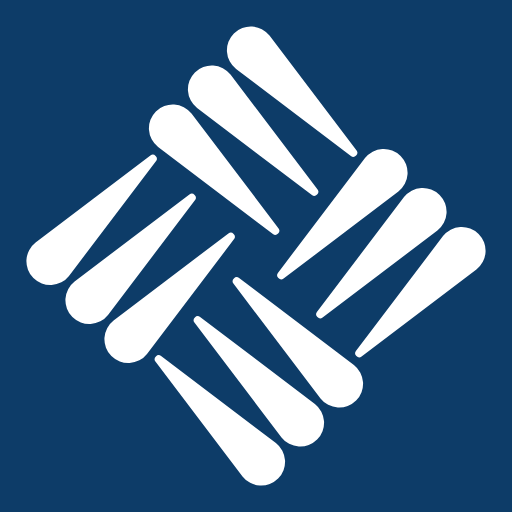
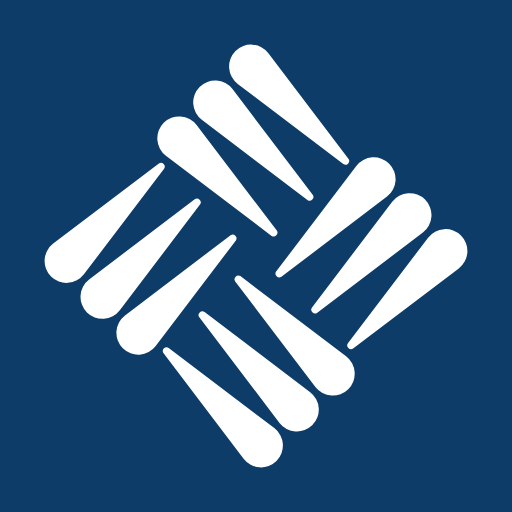
El logotipo, con un poco más de margen
En la imagen que se entregó el dibujo ocupa el 90 % del cuadro. En un icono
eso es llegar casi al borde: con las esquinas redondeadas, las gotas de los
extremos quedaban a dos píxeles del canto.

Las gotas van ahora al 92 % de aquel tamaño —el dibujo ocupa el 83 % del
cuadro—, con el mismo azul alrededor. Cambia en los tres sitios donde vive el
trazo (`favicon.svg`, `design/marca.ts` e `index.html`) y en los cuatro PNG.

La variante de Android se encoge menos (0,85 en vez de 0,78) para acabar del
mismo tamaño que antes dentro de su círculo.

Claude-Session: https://claude.ai/code/session_01SRM8uLNo9CgUdEtVNYbfDJ

diff --git a/index.html b/index.html
@@ -66,7 +66,7 @@
       <div id="arranque" role="status" aria-label="Cargando">
         <svg width="72" height="72" viewBox="0 0 512 512" aria-hidden="true">
           <rect width="512" height="512" fill="#0D3C68" />
-          <path fill="#fff" d="M269.5 35.6L356.6 150.4A4.1 4.1 0 0 1 350.9 156.1L236.1 69A23.8 23.8 0 1 1 269.5 35.6ZM230.5 74.6L317.6 189.4A4.1 4.1 0 0 1 311.9 195.1L197.1 108A23.8 23.8 0 1 1 230.5 74.6ZM191.5 113.6L278.6 228.4A4.1 4.1 0 0 1 272.9 234.1L158.1 147A23.8 23.8 0 1 1 191.5 113.6ZM476.4 269.5L361.6 356.6A4.1 4.1 0 0 1 355.9 350.9L443 236.1A23.8 23.8 0 1 1 476.4 269.5ZM437.4 230.5L322.6 317.6A4.1 4.1 0 0 1 316.9 311.9L404 197.1A23.8 23.8 0 1 1 437.4 230.5ZM398.4 191.5L283.6 278.6A4.1 4.1 0 0 1 277.9 272.9L365 158.1A23.8 23.8 0 1 1 398.4 191.5ZM242.5 476.4L155.4 361.6A4.1 4.1 0 0 1 161.1 355.9L275.9 443A23.8 23.8 0 1 1 242.5 476.4ZM281.5 437.4L194.4 322.6A4.1 4.1 0 0 1 200.1 316.9L314.9 404A23.8 23.8 0 1 1 281.5 437.4ZM320.5 398.4L233.4 283.6A4.1 4.1 0 0 1 239.1 277.9L353.9 365A23.8 23.8 0 1 1 320.5 398.4ZM35.6 242.5L150.4 155.4A4.1 4.1 0 0 1 156.1 161.1L69 275.9A23.8 23.8 0 1 1 35.6 242.5ZM74.6 281.5L189.4 194.4A4.1 4.1 0 0 1 195.1 200.1L108 314.9A23.8 23.8 0 1 1 74.6 281.5ZM113.6 320.5L228.4 233.4A4.1 4.1 0 0 1 234.1 239.1L147 353.9A23.8 23.8 0 1 1 113.6 320.5Z" />
+          <path fill="#fff" d="M268.4 53.2L348.6 158.9A3.8 3.8 0 0 1 343.3 164.1L237.7 83.9A21.9 21.9 0 1 1 268.4 53.2ZM232.5 89.1L312.7 194.7A3.8 3.8 0 0 1 307.4 200L201.8 119.8A21.9 21.9 0 1 1 232.5 89.1ZM196.6 125L276.8 230.6A3.8 3.8 0 0 1 271.6 235.9L165.9 155.7A21.9 21.9 0 1 1 196.6 125ZM458.8 268.4L353.1 348.6A3.8 3.8 0 0 1 347.9 343.3L428.1 237.7A21.9 21.9 0 1 1 458.8 268.4ZM422.9 232.5L317.3 312.7A3.8 3.8 0 0 1 312 307.4L392.2 201.8A21.9 21.9 0 1 1 422.9 232.5ZM387 196.6L281.4 276.8A3.8 3.8 0 0 1 276.1 271.6L356.3 165.9A21.9 21.9 0 1 1 387 196.6ZM243.6 458.8L163.4 353.1A3.8 3.8 0 0 1 168.7 347.9L274.3 428.1A21.9 21.9 0 1 1 243.6 458.8ZM279.5 422.9L199.3 317.3A3.8 3.8 0 0 1 204.6 312L310.2 392.2A21.9 21.9 0 1 1 279.5 422.9ZM315.4 387L235.2 281.4A3.8 3.8 0 0 1 240.4 276.1L346.1 356.3A21.9 21.9 0 1 1 315.4 387ZM53.2 243.6L158.9 163.4A3.8 3.8 0 0 1 164.1 168.7L83.9 274.3A21.9 21.9 0 1 1 53.2 243.6ZM89.1 279.5L194.7 199.3A3.8 3.8 0 0 1 200 204.6L119.8 310.2A21.9 21.9 0 1 1 89.1 279.5ZM125 315.4L230.6 235.2A3.8 3.8 0 0 1 235.9 240.4L155.7 346.1A21.9 21.9 0 1 1 125 315.4Z" />
         </svg>
       </div>
     </div>

diff --git a/src/design/marca.ts b/src/design/marca.ts
@@ -16,4 +16,4 @@ export const MARCA_FONDO = '#0D3C68'
 
 /** Las doce gotas, en un lienzo de 512 × 512. */
 export const MARCA_TRAZO =
-  'M269.5 35.6L356.6 150.4A4.1 4.1 0 0 1 350.9 156.1L236.1 69A23.8 23.8 0 1 1 269.5 35.6ZM230.5 74.6L317.6 189.4A4.1 4.1 0 0 1 311.9 195.1L197.1 108A23.8 23.8 0 1 1 230.5 74.6ZM191.5 113.6L278.6 228.4A4.1 4.1 0 0 1 272.9 234.1L158.1 147A23.8 23.8 0 1 1 191.5 113.6ZM476.4 269.5L361.6 356.6A4.1 4.1 0 0 1 355.9 350.9L443 236.1A23.8 23.8 0 1 1 476.4 269.5ZM437.4 230.5L322.6 317.6A4.1 4.1 0 0 1 316.9 311.9L404 197.1A23.8 23.8 0 1 1 437.4 230.5ZM398.4 191.5L283.6 278.6A4.1 4.1 0 0 1 277.9 272.9L365 158.1A23.8 23.8 0 1 1 398.4 191.5ZM242.5 476.4L155.4 361.6A4.1 4.1 0 0 1 161.1 355.9L275.9 443A23.8 23.8 0 1 1 242.5 476.4ZM281.5 437.4L194.4 322.6A4.1 4.1 0 0 1 200.1 316.9L314.9 404A23.8 23.8 0 1 1 281.5 437.4ZM320.5 398.4L233.4 283.6A4.1 4.1 0 0 1 239.1 277.9L353.9 365A23.8 23.8 0 1 1 320.5 398.4ZM35.6 242.5L150.4 155.4A4.1 4.1 0 0 1 156.1 161.1L69 275.9A23.8 23.8 0 1 1 35.6 242.5ZM74.6 281.5L189.4 194.4A4.1 4.1 0 0 1 195.1 200.1L108 314.9A23.8 23.8 0 1 1 74.6 281.5ZM113.6 320.5L228.4 233.4A4.1 4.1 0 0 1 234.1 239.1L147 353.9A23.8 23.8 0 1 1 113.6 320.5Z'
+  'M268.4 53.2L348.6 158.9A3.8 3.8 0 0 1 343.3 164.1L237.7 83.9A21.9 21.9 0 1 1 268.4 53.2ZM232.5 89.1L312.7 194.7A3.8 3.8 0 0 1 307.4 200L201.8 119.8A21.9 21.9 0 1 1 232.5 89.1ZM196.6 125L276.8 230.6A3.8 3.8 0 0 1 271.6 235.9L165.9 155.7A21.9 21.9 0 1 1 196.6 125ZM458.8 268.4L353.1 348.6A3.8 3.8 0 0 1 347.9 343.3L428.1 237.7A21.9 21.9 0 1 1 458.8 268.4ZM422.9 232.5L317.3 312.7A3.8 3.8 0 0 1 312 307.4L392.2 201.8A21.9 21.9 0 1 1 422.9 232.5ZM387 196.6L281.4 276.8A3.8 3.8 0 0 1 276.1 271.6L356.3 165.9A21.9 21.9 0 1 1 387 196.6ZM243.6 458.8L163.4 353.1A3.8 3.8 0 0 1 168.7 347.9L274.3 428.1A21.9 21.9 0 1 1 243.6 458.8ZM279.5 422.9L199.3 317.3A3.8 3.8 0 0 1 204.6 312L310.2 392.2A21.9 21.9 0 1 1 279.5 422.9ZM315.4 387L235.2 281.4A3.8 3.8 0 0 1 240.4 276.1L346.1 356.3A21.9 21.9 0 1 1 315.4 387ZM53.2 243.6L158.9 163.4A3.8 3.8 0 0 1 164.1 168.7L83.9 274.3A21.9 21.9 0 1 1 53.2 243.6ZM89.1 279.5L194.7 199.3A3.8 3.8 0 0 1 200 204.6L119.8 310.2A21.9 21.9 0 1 1 89.1 279.5ZM125 315.4L230.6 235.2A3.8 3.8 0 0 1 235.9 240.4L155.7 346.1A21.9 21.9 0 1 1 125 315.4Z'

diff --git a/scripts/genera-iconos.ts b/scripts/genera-iconos.ts
@@ -44,7 +44,10 @@ function pagina(escala = 1): string {
 const salidas: Array<{ fichero: string; lado: number; escala: number }> = [
   { fichero: 'public/icon-192.png', lado: 192, escala: 1 },
   { fichero: 'public/icon-512.png', lado: 512, escala: 1 },
-  { fichero: 'public/icon-maskable-512.png', lado: 512, escala: 0.78 },
+  /* 0,85 y no 0,78: el dibujo de `favicon.svg` ya viene con su propio margen
+     (está al 92 % del original), así que aquí hace falta encogerlo menos para
+     acabar en el mismo tamaño de siempre dentro del círculo de Android. */
+  { fichero: 'public/icon-maskable-512.png', lado: 512, escala: 0.85 },
   { fichero: 'public/apple-touch-icon.png', lado: 180, escala: 1 },
 ]
 
